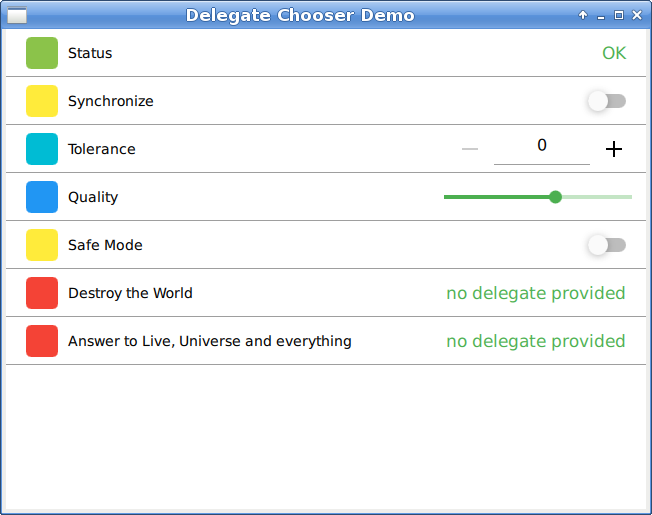
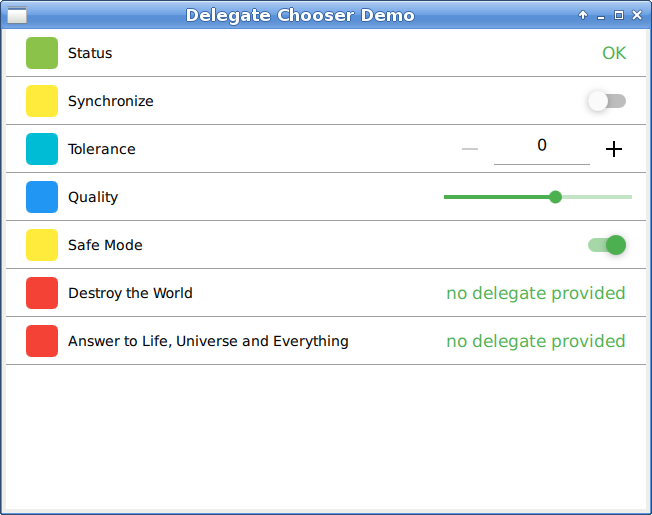
Fixed typo

Changed region(s): [[0.2147, 0.6524, 0.5521, 0.6835], [0.8896, 0.435, 0.9816, 0.4971]]

diff --git a/qml/main.qml b/qml/main.qml
@@ -21,7 +21,7 @@ Window {
             ListElement { name: "Quality"; type: "quality"; quality: 3 }
             ListElement { name: "Safe Mode"; type: "bool"; check: true }
             ListElement { name: "Destroy the World"; type: "double"; trigger: 1.5 }
-            ListElement { name: "Answer to Live, Universe and everything"; type: "towel"; answer: 42 }
+            ListElement { name: "Answer to Life, Universe and Everything"; type: "towel"; answer: 42 }
         }
     }
 
